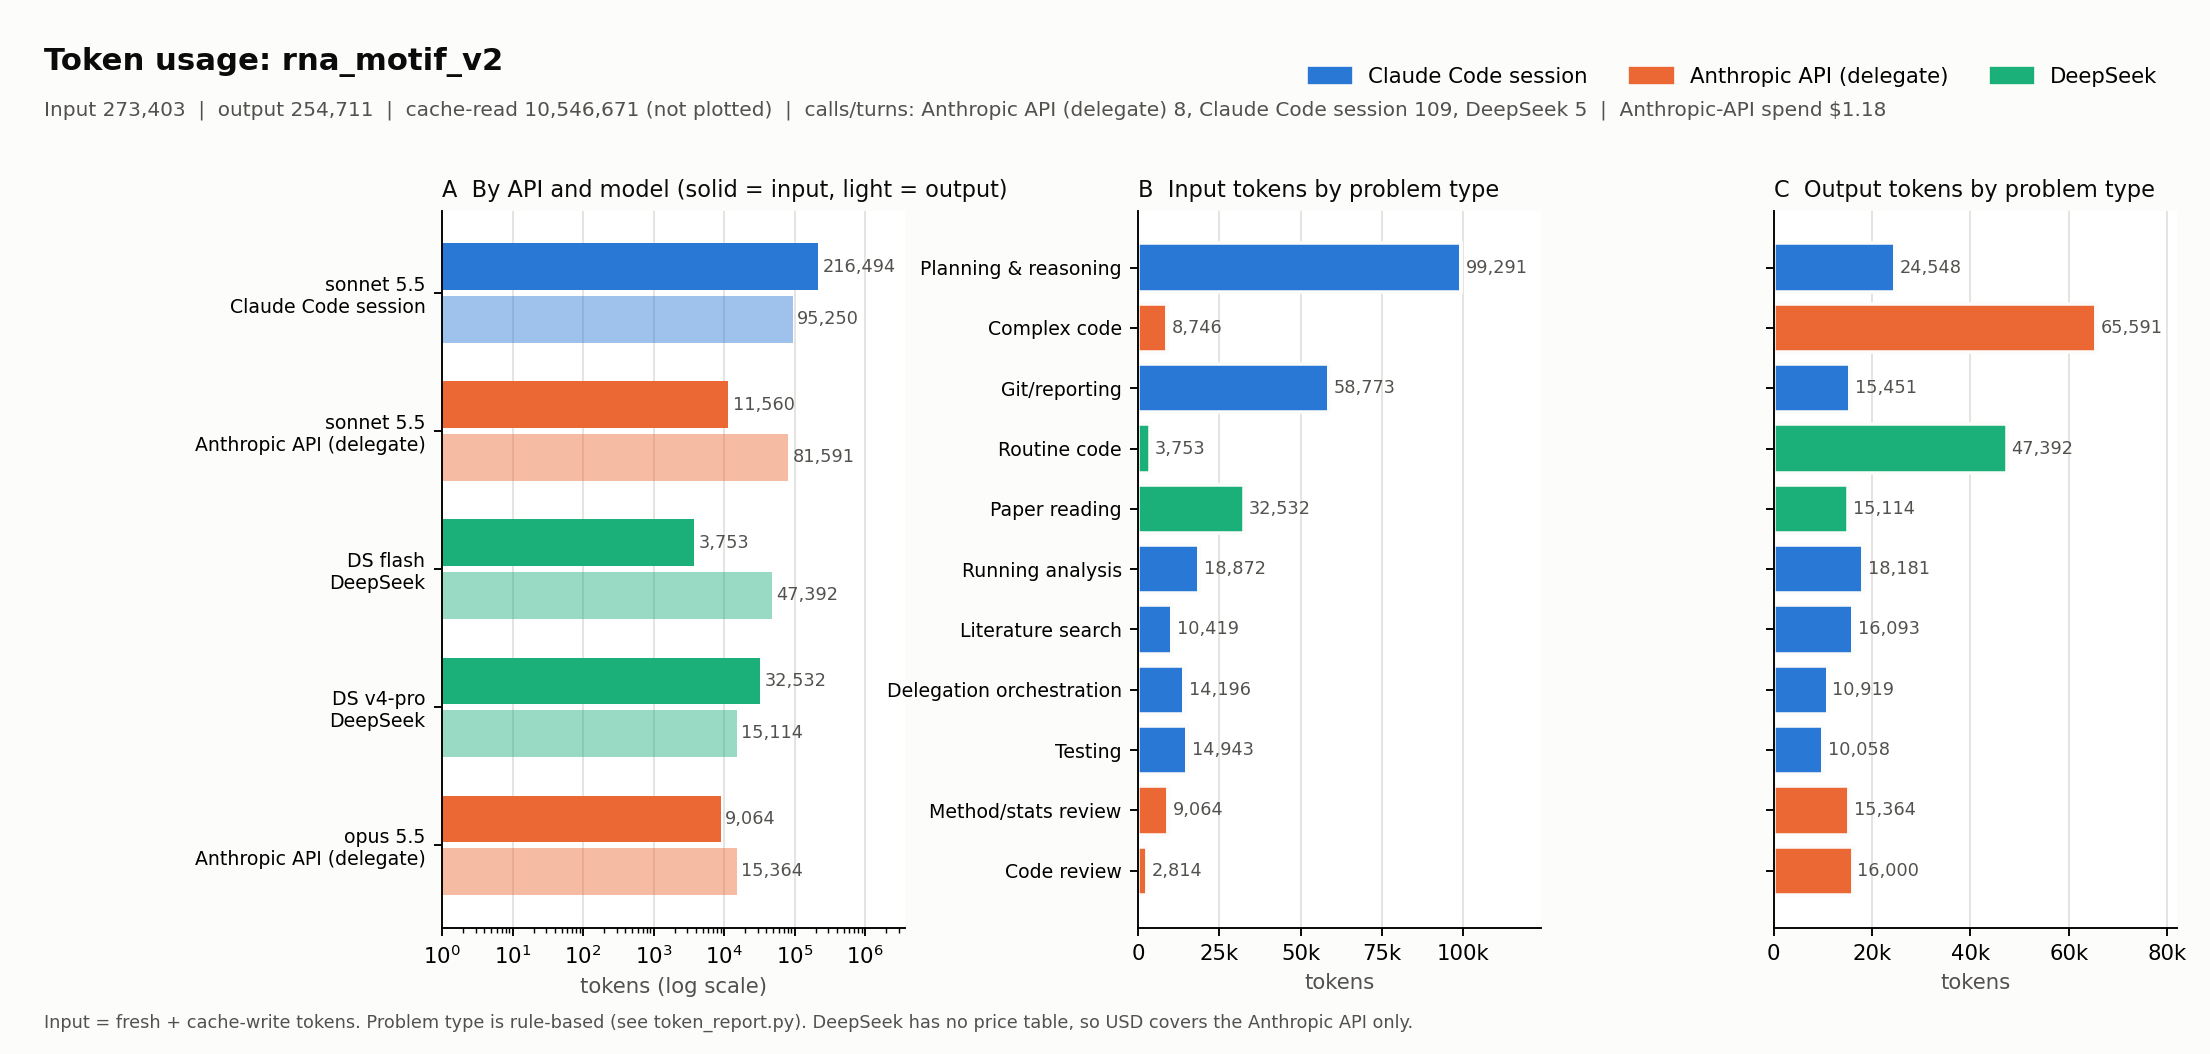
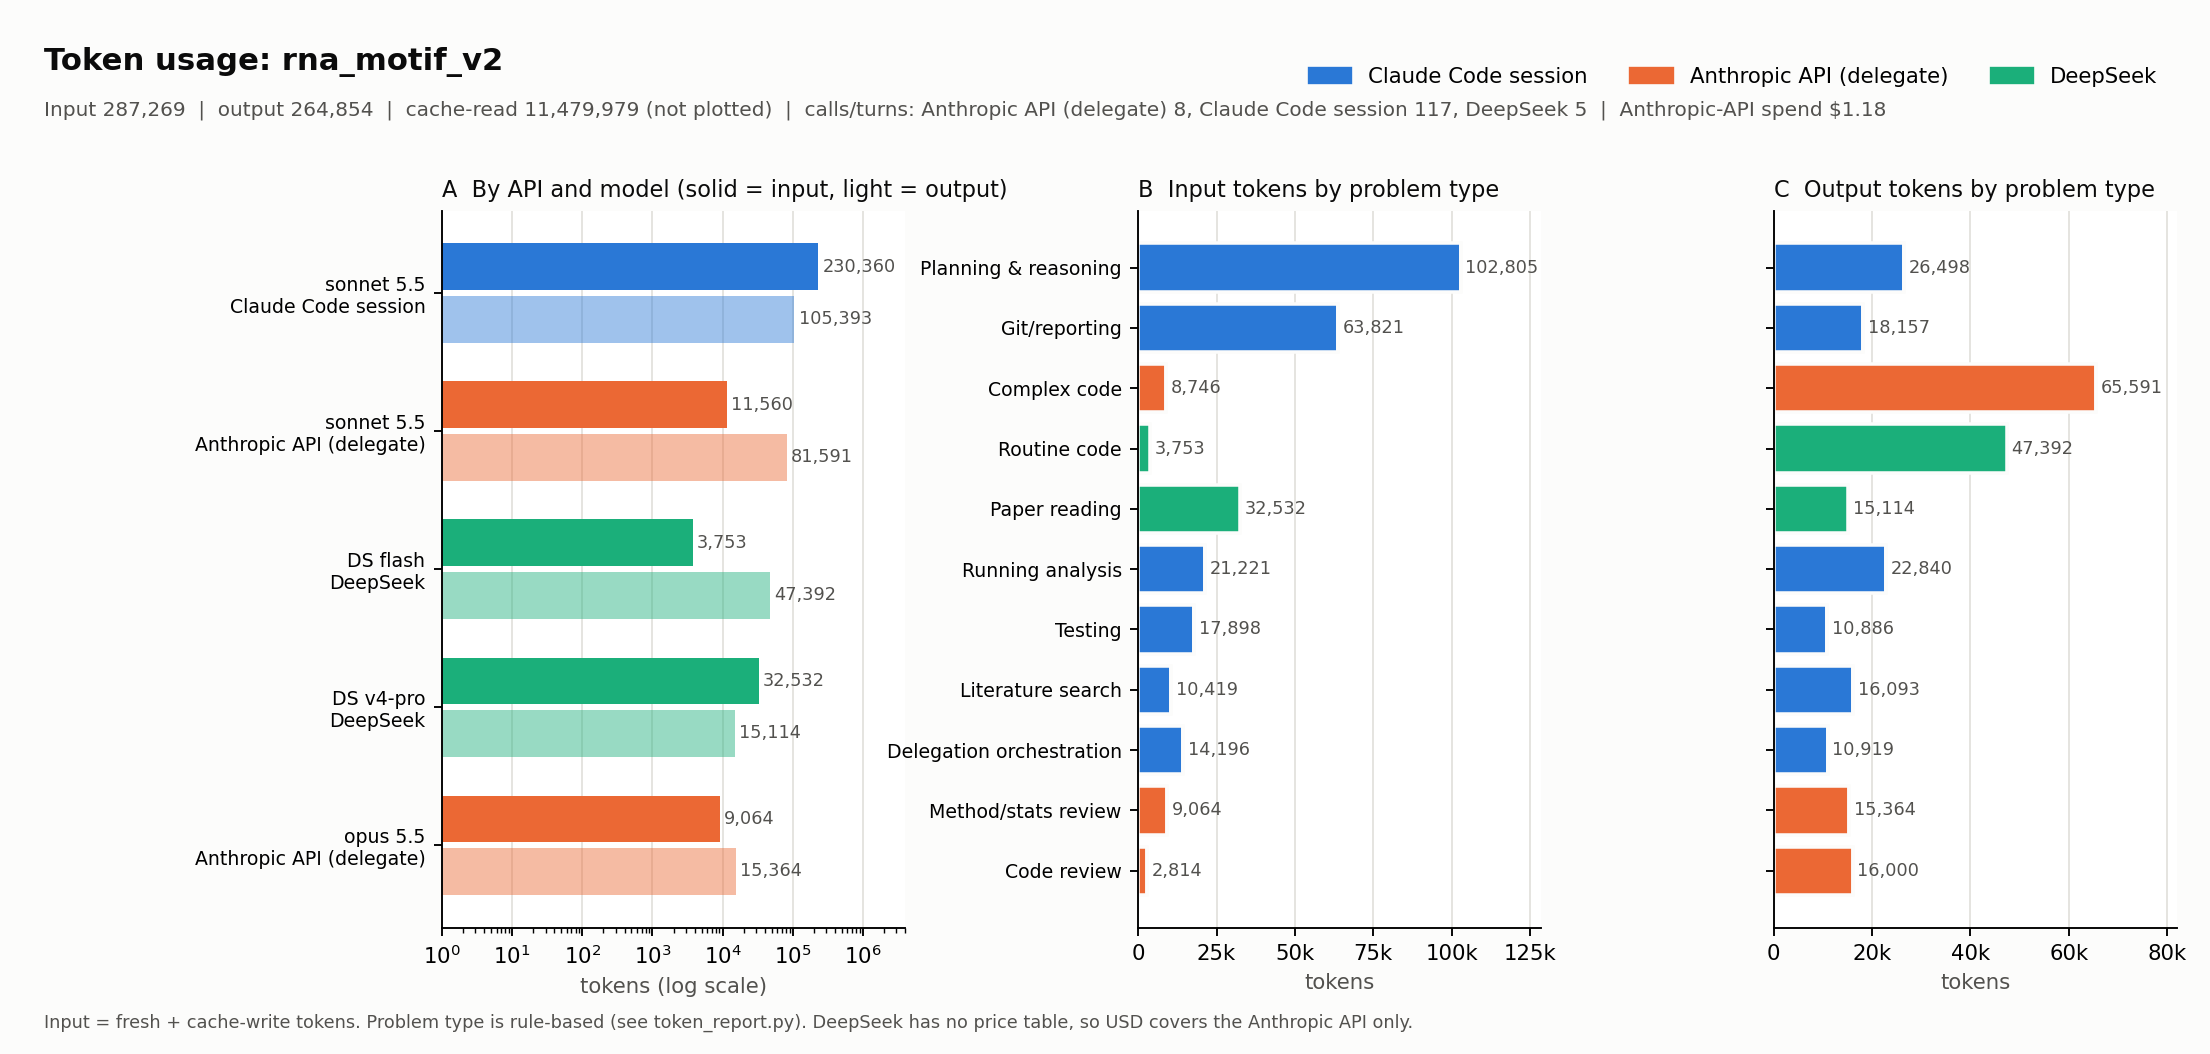
Covariation of s2m seed, human-mRNA negative set; final README
Claude-Session: https://claude.ai/code/session_012s97HDZUaudFz8ZLNWwvAC

diff --git a/src/covariation.py b/src/covariation.py
@@ -1,0 +1,69 @@
+"""Covariation test of the Rfam RF00164 (s2m) seed alignment: mutual information of annotated base-paired columns vs unpaired column pairs,
+plus ViennaRNA RNAalifold consensus structure. Independent evidence for a conserved structure (RNAfold MFE of single sequences was uninformative)."""
+from __future__ import annotations
+import itertools, math, random
+from collections import Counter
+from pathlib import Path
+import numpy as np
+
+def read_sto(path: Path) -> tuple[dict[str, str], str]:
+    seqs: dict[str, str] = {}; ss = ""
+    for l in path.read_text().splitlines():
+        if l.startswith("#=GC SS_cons"): ss += l.split(None, 2)[2].strip()
+        elif l and not l.startswith(("#", "//")):
+            n, s = l.split(None, 1); seqs[n] = seqs.get(n, "") + s.strip().upper().replace("T", "U")
+    return seqs, ss
+
+def pairs_from_ss(ss: str) -> list[tuple[int, int]]:
+    st = {"<": [], "(": [], "[": [], "{": []}; close = {">": "<", ")": "(", "]": "[", "}": "{"}; out = []
+    for i, c in enumerate(ss):
+        if c in st: st[c].append(i)
+        elif c in close and st[close[c]]: out.append((st[close[c]].pop(), i))
+    return sorted(out)
+
+def mi(a: list[str], b: list[str]) -> float:
+    """Mutual information (bits) over rows where both columns are ACGU."""
+    rows = [(x, y) for x, y in zip(a, b) if x in "ACGU" and y in "ACGU"]
+    n = len(rows)
+    if n < 10: return float("nan")
+    pxy, px, py = Counter(rows), Counter(x for x, _ in rows), Counter(y for _, y in rows)
+    return sum(c / n * math.log2((c / n) / (px[x] / n * py[y] / n)) for (x, y), c in pxy.items())
+
+def main(seed: int = 42, n_null: int = 5000) -> None:
+    seqs, ss = read_sto(Path("reference/rfam/RF00164_seed.sto"))
+    L = len(ss); cols = [[s[i] for s in seqs.values()] for i in range(L)]
+    pairs = pairs_from_ss(ss); paired = {i for p in pairs for i in p}
+    canon = {"AU", "UA", "GC", "CG", "GU", "UG"}
+    rows = []
+    for i, j in pairs:
+        bp = [x + y for x, y in zip(cols[i], cols[j]) if x in "ACGU" and y in "ACGU"]
+        kinds = Counter(bp); top = kinds.most_common(1)[0][0] if kinds else ""
+        subs = sum(c for k, c in kinds.items() if k != top and k in canon)   # compatible changes from the majority pair
+        both = sum(c for k, c in kinds.items() if k != top and k in canon and k[0] != top[0] and k[1] != top[1])  # double (compensatory) changes
+        rows.append((i, j, len(bp), sum(k in canon for k in bp) / max(len(bp), 1), subs, both, mi(cols[i], cols[j])))
+    rng = random.Random(seed)
+    unp = [i for i in range(L) if i not in paired and sum(c in "ACGU" for c in cols[i]) >= 10]
+    null = []
+    while len(null) < n_null:
+        i, j = rng.sample(unp, 2)
+        if abs(i - j) > 3:
+            m = mi(cols[i], cols[j])
+            if not math.isnan(m): null.append(m)
+    null = np.array(null)
+    var_pairs = [r for r in rows if r[4] > 0]
+    print(f"{len(seqs)} seqs, {L} columns, {len(pairs)} annotated pairs; mean canonical fraction {np.mean([r[3] for r in rows]):.2f}")
+    print(f"pairs with compatible substitutions: {len(var_pairs)}; with double (compensatory) changes: {sum(r[5] > 0 for r in rows)}")
+    mis = np.array([r[6] for r in rows if not math.isnan(r[6])])
+    p = (1 + (null[None, :] >= mis[:, None]).sum(axis=1)) / (len(null) + 1)
+    print(f"MI paired mean {mis.mean():.3f} vs unpaired-null mean {null.mean():.3f} (95th pct {np.percentile(null, 95):.3f}); pairs with empirical p<0.05: {(p < 0.05).sum()}/{len(mis)}")
+    from scipy.stats import mannwhitneyu
+    print("Mann-Whitney paired>unpaired MI: p=%.2e" % mannwhitneyu(mis, null, alternative="greater").pvalue)
+    import RNA
+    aln = [s.replace(".", "-") for s in seqs.values()]
+    st, e = RNA.alifold(aln)
+    print("alifold consensus:", st, round(e, 2)); print("Rfam SS_cons    :", ss)
+    import pandas as pd
+    pd.DataFrame(rows, columns=["col_i", "col_j", "n", "frac_canonical", "n_compat_subs", "n_double_changes", "mi_bits"]).to_csv("results/s2m_covariation.tsv", sep="\t", index=False)
+
+if __name__ == "__main__":
+    main()

diff --git a/src/host_control.py b/src/host_control.py
@@ -1,0 +1,53 @@
+"""Non-viral negative set: spread-sampled human RefSeq mRNAs run through the same engine.
+Question: are the 148 robust viral k-mers viral-specific, or generic mRNA-terminus signal (e.g. AU-rich 3'-UTR)?"""
+from __future__ import annotations
+import sys, time
+from pathlib import Path
+import pandas as pd
+sys.path.insert(0, str(Path(__file__).parent))
+import motif
+from cluster import cluster_sequences, pick_representatives, mask_low_complexity
+from fetch_qc import EutilsClient, _esearch, _efetch_fasta, _parse_fasta, _every_kth
+
+N, POOL, SEED = 450, 3000, 42
+OUT = Path("data_host"); R = Path("results")
+
+def fetch() -> dict[str, str]:
+    f = OUT / "host_mrna.fa"
+    if not f.exists():
+        c = EutilsClient()
+        term = '"Homo sapiens"[Organism] AND srcdb_refseq[PROP] AND biomol_mrna[PROP] AND NM_[PREFIX] AND 1000:10000[SLEN]'
+        ids = _every_kth(_esearch(c, term, POOL), N, SEED)
+        txt = ""
+        for i in range(0, len(ids), 100): txt += _efetch_fasta(c, ids[i:i + 100]); time.sleep(0.4)
+        OUT.mkdir(exist_ok=True); f.write_text(txt)
+    return {h.split()[0]: s.upper().replace("U", "T") for h, s in _parse_fasta(f.read_text())}
+
+def main() -> None:
+    seqs = fetch(); accs = sorted(seqs)
+    ok = [a for a in accs if sum(ch in "ACGT" for ch in seqs[a]) / len(seqs[a]) >= 0.99]
+    s = [mask_low_complexity(seqs[a]) for a in ok]
+    lab = cluster_sequences(s, 0.10); reps = set(pick_representatives(ok, s, lab).values())
+    keep = [(a, x) for a, x in zip(ok, s) if a in reps]
+    print(f"host mRNAs fetched {len(seqs)}, ACGT>=99% {len(ok)}, cluster reps {len(keep)}")
+    hs = [x for _, x in keep]; fam = ["Homo_sapiens"] * len(hs)
+    d = motif.run_discovery(hs, fam, ks=(6, 7, 8), regions=("5p300", "3p300"), order=2)
+    d.to_csv(R / "host_motifs.tsv", sep="\t", index=False)
+    rob = pd.read_csv(R / "robust_candidates.tsv", sep="\t"); rows = []
+    for _, r in rob.iterrows():
+        h = d[(d.region == r.region) & (d.kmer == r.kmer)]
+        hit = h.iloc[0] if len(h) else None
+        cov = float("nan") if r.region == "whole" else (sum(r.kmer in (x[-300:] if r.region == "3p300" else x[:300]) for x in hs) / len(hs))
+        rows.append({"region": r.region, "kmer": r.kmer, "viral_cov": r.coverage_frac, "host_cov": cov,
+                     "host_q": hit.q if hit is not None else float("nan"), "host_log2": hit.log2_enrich if hit is not None else float("nan")})
+    o = pd.DataFrame(rows); o["host_sig"] = (o.host_q < 0.05) & (o.host_log2 >= 1)
+    o["class"] = o.apply(lambda x: "whole-genome (not tested)" if x.region == "whole" else
+                         "generic (also enriched in host)" if x.host_sig else
+                         "viral-specific (host coverage <5%)" if x.host_cov < 0.05 else "present in host, not enriched", axis=1)
+    o.to_csv(R / "robust_vs_host.tsv", sep="\t", index=False)
+    print(o["class"].value_counts().to_string())
+    print(o.sort_values("viral_cov", ascending=False).groupby("class").head(4).to_string(index=False))
+    print("host windows: n_tests", d.groupby("region").size().to_dict(), "sig:", d[(d.q < .05) & (d.log2_enrich >= 1)].groupby("region").size().to_dict())
+
+if __name__ == "__main__":
+    main()

diff --git a/tests/test_covariation.py b/tests/test_covariation.py
@@ -1,0 +1,13 @@
+import sys
+from pathlib import Path
+sys.path.insert(0, str(Path(__file__).parent.parent / "src"))
+from covariation import pairs_from_ss, mi
+
+def test_pairs_from_ss():
+    assert pairs_from_ss("<<..>>") == [(0, 5), (1, 4)]
+
+def test_mi_perfect_and_independent():
+    a = list("AAAAUUUUGGGGCCCC"); b = list("UUUUAAAACCCCGGGG")
+    assert mi(a, b) > 1.9
+    c = list("ACGUACGUACGUACGU"); d = list("AAAACCCCGGGGUUUU")
+    assert mi(c, d) < 0.01

diff --git a/README.md b/README.md
@@ -1,6 +1,6 @@
 # Viral RNA regulatory-motif discovery (rna_motif_v2)
 
-**Final (2026-11-02): 148 candidate k-mers are significant in all three sampling/clustering variants (114 last-300 nt, 29 first-300 nt, 5 whole genome); the strongest is a conserved 3'-UTR element identical to the published s2m (Rfam RF00164). Everything else is a statistical candidate, not a validated element; q-values are not literal error rates.**
+**Final (2026-11-02): 148 candidate k-mers are significant in all three sampling/clustering variants (114 last-300 nt, 29 first-300 nt, 5 whole genome); 101 of the 143 terminal ones are absent from a human-mRNA control, 32 are generic 3'-end signal. The strongest is a conserved 3'-UTR element identical to the published s2m (Rfam RF00164) with covariation support. Everything else is a statistical candidate, not a validated element; q-values are not literal error rates.**
 
 ## Abstract
 Question: which short RNA sequence patterns (k=6-8) are over-represented in viral RNA beyond what each genome's own order-2 composition predicts, counting independent sequence clusters rather than records? Approach: NCBI RefSeq pull + QC, similarity clustering, per-sequence Markov-2 background with exact Poisson-binomial tails, BH-FDR within region (whole genome / first 300 nt / last 300 nt). Result: calibration gates pass (1/20 null datasets with any BH hit; planted 8-mer recovered at rank 1, q~1e-134); naive record counting inflates hits 9.6x on a redundant set. On real data 76 whole-genome and ~740-880 terminal-region k-mers are significant, log2 enrichment >=1 and robust to an order-1 background. Of these, 148 are significant in all three variants (main, coarse clustering, spread sampling; `results/robust_candidates.tsv`), led by the s2m core (q~1e-31). These are candidates, not functional elements; coding constraint and genus-level homology are not removed (see limitations).
@@ -16,7 +16,8 @@ Question: which short RNA sequence patterns (k=6-8) are over-represented in vira
 - [x] 7. `stat-check` audit + family-level replication (`src/robustness.py`)
 - [x] 8. Follow-up of the recurring 3'-end motif: extended element, consistent with s2m (literature check below)
 - [x] 9. s2m verified against Rfam RF00164; local-background, coarse-clustering and spread-sampling sensitivity; robust list; RNAfold check (`src/structure.py`)
-- [x] 10. Token-use report ([Resource use](#resource-use)); final report
+- [x] 10. Covariation of the s2m seed alignment (`src/covariation.py`); human-mRNA negative set (`src/host_control.py`)
+- [x] 11. Token-use report ([Resource use](#resource-use)); final report
 
 ## Data
 469 RefSeq records after QC (12 families, 1000-35,000 nt) + 96 GenBank strains (SARS-CoV-2, Dengue 2, HCV; redundancy demo only). 55 of 620 fetched records dropped (all: >1% non-ACGT). Clustering: RefSeq collapses little (about 1 cluster per record, largest 5), demo collapses strongly (21 -> 1, 75 -> 15 clusters). Only cluster representatives are counted [@bernett2024leakage Q4].
@@ -90,6 +91,10 @@ Coarser clustering removes ~75-85% of terminal hits (Coronaviridae collapses to 
 
 **Structure check** (`src/structure.py`, ViennaRNA 2.7.2; 60-nt windows centred on GAGGGTAC, 26 genomes, 200 dinucleotide shuffles each): windows fold with MFE about -13 kcal/mol, but not more stably than shuffled sequence (median z=+0.42, 0/26 with empirical p<0.05). So single-sequence MFE gives no support for a stable fold. This is a weak test (MFE z-scores are insensitive for short conserved hairpins, and the real s2m structure is a conserved stem-loop supported by covariation in Rfam), so it neither confirms nor refutes the element.
 
+**Covariation of the s2m structure** (`src/covariation.py`, `results/s2m_covariation.tsv`; Rfam RF00164 seed, 39 sequences, 12 annotated base pairs): paired columns carry far more mutual information than unpaired column pairs (mean 0.56 vs 0.04 bits; Mann-Whitney p=3e-3; 6/12 pairs individually beat the unpaired null at empirical p<0.05, 6/12 show double compensatory changes, 98% of pairs canonical). ViennaRNA RNAalifold on the unannotated alignment independently recovers the outer 5-bp stem and inner helices (consensus `...(((((.(..(((.((((......))..))..))).).))))).. `, -13.0 kcal/mol). Caveats: the Rfam structure was itself derived from this alignment, so the MI test is partly circular, and seed sequences are phylogenetically redundant. The Rfam consensus also contains GGCCACGC next to the core, which confirms that this k-mer, found in the same genomes, belongs to the s2m element. This is the evidence for a conserved structure that the single-sequence MFE test could not give; I did not run R-scape or Infernal (not installed).
+
+**Non-viral negative set** (`src/host_control.py`, `results/robust_vs_host.tsv`): 323 spread-sampled human RefSeq mRNAs (NM_, 1-10 kb), clustered like the viral data to 83 representatives, run through the same engine. Of the 143 non-whole-genome robust k-mers: **72 last-300-nt and all 29 first-300-nt k-mers are viral-specific** (<5% of host windows contain them, 0% for the s2m core and GGCCACGC/ACGCCGAG, TTTTCTTA); **32 last-300-nt k-mers are generic** (also enriched in host 3' ends), including the AU-rich ones (TTTTAA host 34% vs viral 30%, q=4e-6; TTTAAA, TTTAAT, TAATTA), 10 occur in host without enrichment. So the earlier open question is answered: the AU-rich 3' signal is a generic mRNA-terminus (3'-UTR/polyadenylation-context) composition effect, not a virus-specific motif. The 5 whole-genome k-mers were not tested. Caveat: only 83 host representatives, so host power is limited, and host windows themselves give ~870 (3') and ~1,270 (5') "significant" k-mers, another sign that q-values overstate evidence under a Markov-2 background.
+
 ![redundancy](figures/g2_redundancy.png)
 
 ## Discussion and limitations
@@ -98,10 +103,11 @@ Coarser clustering removes ~75-85% of terminal hits (Coronaviridae collapses to 
 - Clusters at ~85-90% identity: genus-level homology (60-85% identity) is not removed, so effective n is nearer the number of genera/families than 469. The recurring 3'-end family could be one clade's conserved sequence.
 - Genus-level clustering and spread sampling done: ~55-65% of terminal hits reproduce under resampling, ~15-30% survive coarse clustering; only the robust list is reported as the headline. Structure: MFE-only check, no covariation analysis.
 - Thresholds (log2>=1, obs>=3, Jaccard) and the choice of "robust = all three variants" are my defaults; no golden standard covers them.
+- Host control uses 83 representatives; "viral-specific" means absent or not enriched in that small set, not absent from all host RNA.
 - Falsifier of the 3'-end family: absence in independent same-family genomes held out of discovery, or disappearance after genus-level clustering.
 
 ## Next steps
-Experimental follow-up of the non-s2m robust candidates; covariation (e.g. R-scape/Infernal) on the s2m-neighbour k-mers; genus-balanced sampling from more families; a host-RNA or non-viral negative set to separate viral-specific from general UTR signal.
+Experimental follow-up (reporter / SHAPE / mutagenesis) of the 101 viral-specific candidates beyond s2m; R-scape/Infernal covariation on alignments built from our own genomes (tools not installed); larger host set (>=500 representatives) and a second non-viral control (e.g. bacterial or non-coding RNA); genus-balanced sampling from more families.
 
 ## Reproducibility
 ```
@@ -111,7 +117,7 @@ python3 src/run_pipeline.py --out results                         # 6 s
 python3 src/gates.py --out results --n-null 20                    # 110 s
 python3 src/analyze.py                                            # 10 s
 python3 src/robustness.py                                         # ~1 min
-python3 src/local_bg.py; python3 src/structure.py                 # ~1 min
+python3 src/local_bg.py; python3 src/structure.py; python3 src/covariation.py; python3 src/host_control.py                 # ~1 min
 # sensitivity: cluster.py --qc data/qc_coarse --jaccard 0.005; fetch_qc.py --out data_spread --refseq-pool 400; run_pipeline.py on each
 python3 ~/.claude/skills/token-report/token_report.py
 pytest tests/
@@ -121,7 +127,7 @@ Seed 42; Python 3.12, numpy/scipy/pandas; total compute well under 5 min on 10 c
 ## Resource use
 ![token usage](figures/token_usage.png)
 
-Tokens by API, model and problem type (`results/token_usage.tsv`; made with the global `token-report` skill, problem types are rule-based). Most output tokens went to complex-code delegation (Sonnet via API) and routine code (DeepSeek flash); the Claude Code session itself spent most input on planning and reporting. Cache reads (~10.5 M) are not plotted. Anthropic-API spend: $1.18; DeepSeek has no price table.
+Tokens by API, model and problem type (`results/token_usage.tsv`; made with the global `token-report` skill, problem types are rule-based). Most output tokens went to complex-code delegation (Sonnet via API) and routine code (DeepSeek flash); the Claude Code session itself spent most input on planning and reporting. Cache reads (~11.5 M) are not plotted. Anthropic-API spend: $1.18; DeepSeek has no price table.
 
 ## References
 `reference/literature/library.bib`: [@bernett2024leakage], [@razumova2025utr], [@jin2025mrna], [@keep2023s2m], [@lulla2021sl2].
@@ -133,4 +139,5 @@ Tokens by API, model and problem type (`results/token_usage.tsv`; made with the 
 - 2026-11-02: s2m verified vs Rfam RF00164; local-background test of AU-rich 3' k-mers (weak, <2x).
 - 2026-11-02: genus-level clustering and spread-sampling sensitivity runs.
 - 2026-11-02: robust list (148), RNAfold check, token report, final README.
+- 2026-11-02: covariation of s2m seed, human-mRNA negative set (101 viral-specific / 32 generic), final README.
 </details>

diff --git a/.claude/STATE.md b/.claude/STATE.md
@@ -4,5 +4,5 @@ Decisions: SUMMARY.md approved by user. Opus review forced methods v2: order-2 M
 Done: T1 fetch/QC (565 kept: 469 refseq 12 families + 96 demo; 55 dropped nonstandard), T2 cluster, T3 motif.py (12 tests pass), run_pipeline (6 s), gates (G1 pass 1/20, G2 inflation 9.6x, G3 rank1), analyze.py (order-1 sensitivity, known elements, figs).
 Results: results/{summary_by_region,top_candidates,known_elements}.tsv, gates.json; figures/volcano.png, g2_redundancy.png.
 
-Open: none. Project FINISHED 2026-11-02: robust list (148) results/robust_candidates.tsv, RNAfold src/structure.py, token report in README.
+Open: none. Project FINISHED 2026-11-02 (incl. covariation + host control): robust list (148) results/robust_candidates.tsv, RNAfold src/structure.py, token report in README.
 Next: await user (optional: covariation analysis, host-RNA negative set).
